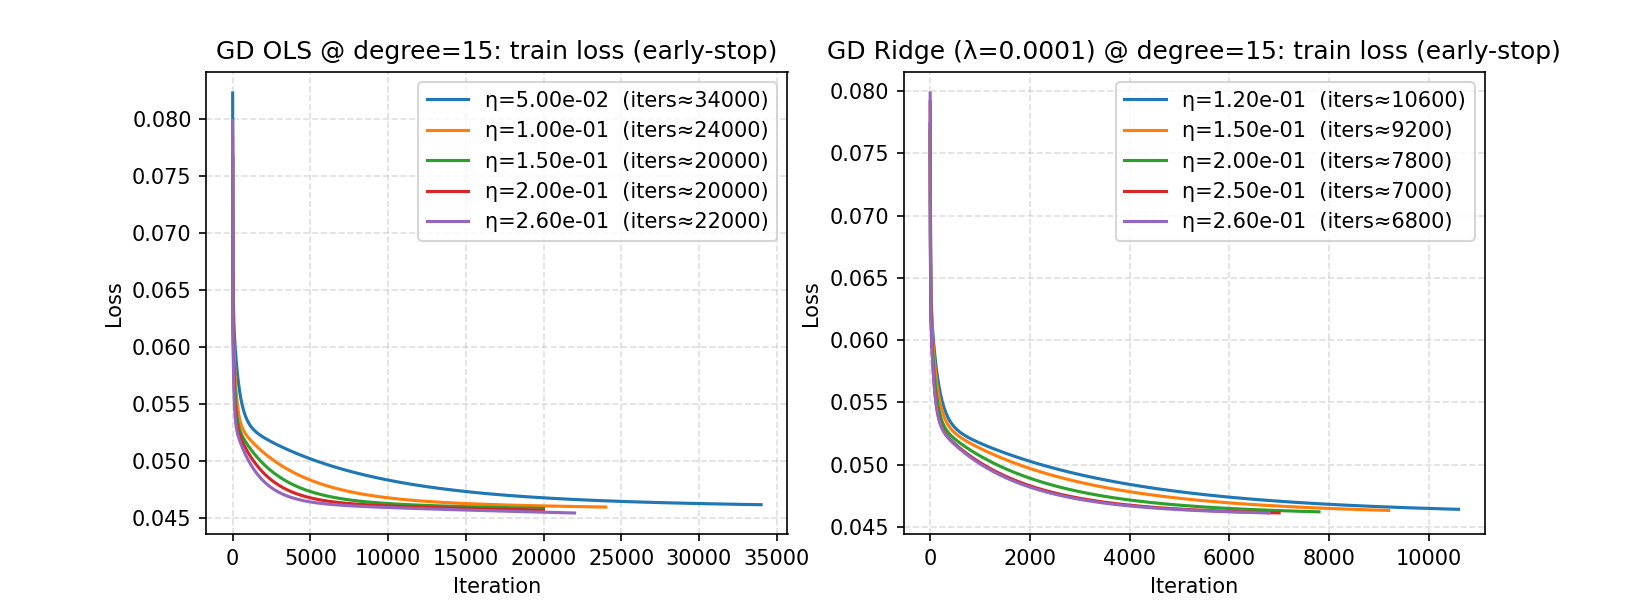
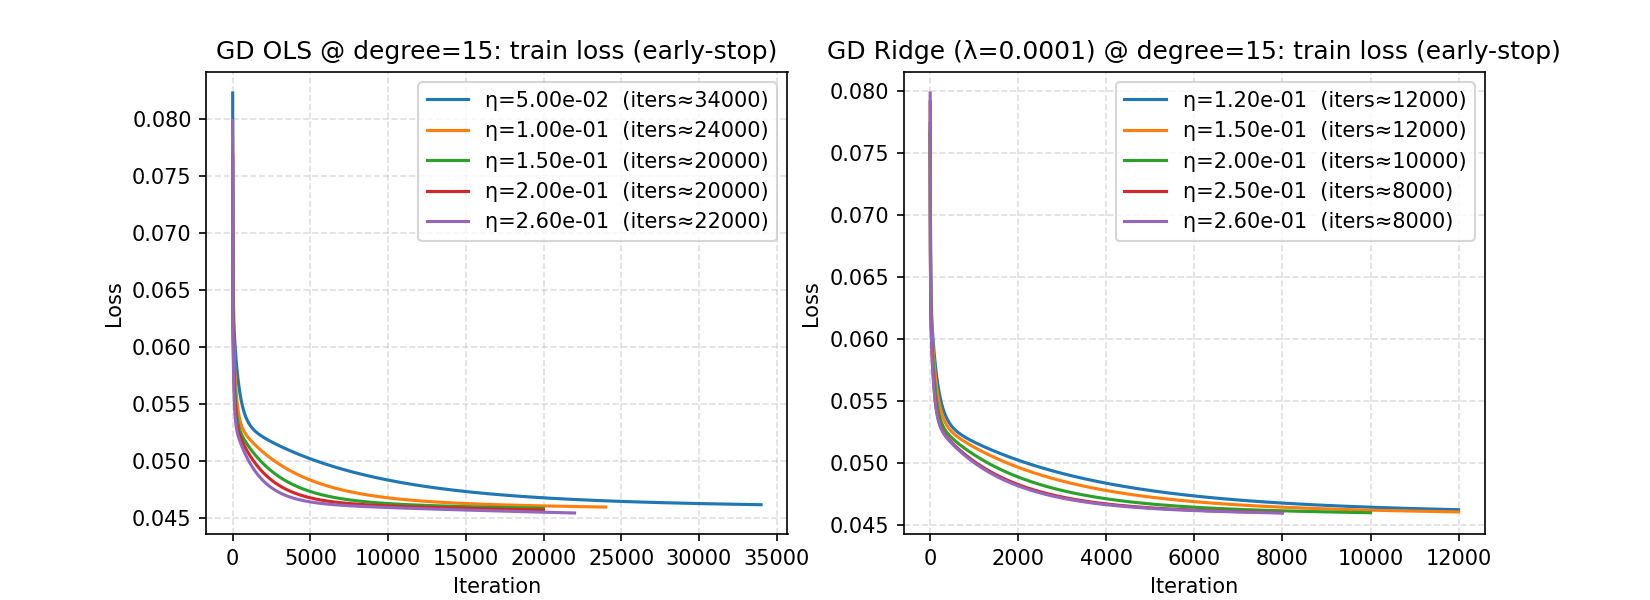
edit code and figures

diff --git a/Project-1/Code/models.py b/Project-1/Code/models.py
@@ -16,15 +16,31 @@ def fit_ols(X, y_c):
     return model.coef_.ravel()
 
 # ---------------- Ridge own code and via scikit-learn (no intercept; y is centered) --------------
-def fit_ridge(X, y_c, lam):
+
+def fit_ridge(X, y_c, lam, n_factor=True):
     """
-    Minimizes: (1/(2n))||Xθ - y_c||^2 + (α/2)||θ||^2 with α = λ/n.
-    Matching normal equations: (X^T X + λ I) θ = X^T y_c.
+    Ridge solution for
+        J(θ) = (1/(2n))‖Xθ - y_c‖^2 + (α/2)‖θ‖^2
+
+    If n_factor=True (default): `lam` is λ and we set α = λ/n internally.
+        Solve: (X^T X + λ I) θ = X^T y_c
+    If n_factor=False: `lam` is α directly.
+        Solve: (X^T X / n + α I) θ = (X^T y_c) / n
     """
-    XT_X = X.T @ X
-    XT_y = X.T @ y_c
-    p = X.shape[1]
-    return np.linalg.solve(XT_X + lam * np.eye(p), XT_y)
+    X = np.asarray(X, float)
+    y = np.asarray(y_c, float).ravel()
+    n, p = X.shape
+    I = np.eye(p, dtype=float)
+
+    if n_factor:             # lam is λ
+        A = X.T @ X + lam * I
+        b = X.T @ y
+    else:                    # lam is α
+        A = (X.T @ X) / n + lam * I
+        b = (X.T @ y) / n
+
+    return np.linalg.solve(A, b)
+
 
 def fit_ridge_sklearn(X, y, lam, n_factor=False, n=None, random_state=42):
     """Ridge via scikit-learn. Note: sklearn uses alpha directly (no /n)."""
@@ -82,57 +98,3 @@ def sweep_ridge(X_full, y, split_func, degree, lambdas, n_factor=True):
     return np.asarray(mses), np.asarray(r2s), np.asarray(norms)
 
 
-
-
-#OLD
-
-
-
-""" def fit_ols_sklearn(X, y):
-    ""OLS via scikit-learn (normal equations / least squares).""
-    model = LinearRegression(fit_intercept=True, copy_X=True)
-    model.fit(X, y)
-    return model  # use model.predict(Xnew)
-
-def fit_ridge_sklearn(X, y, lam, n_factor=False, n=None, random_state=42):
-    ""Ridge via scikit-learn. Note: sklearn uses alpha directly (no /n).""
-    alpha = (lam / n) if (n_factor and n is not None) else lam
-    model = Ridge(alpha=alpha, fit_intercept=True, random_state=random_state)
-    model.fit(X, y)
-    return model  # use model.predict(Xnew) """
-
-""" "Prediction functions."
-#Difference is shape between the two below
-def predict_centered(X, theta, y_mean):   
-    return X @ theta + y_mean # add back y_mean
-
-#1D 
-def predict_from_theta(X, theta, y_mean):
-    return (X @ theta).ravel() + y_mean # add back y_mean """
-
-"Sweep functions to evaluate models over hyperparameter ranges."
-""" def sweep_degree(X_full, y, split_func, deg_max=15):
-    X_tr_s, X_te_s, y_tr_c, y_te, _, y_mean = split_func(X_full, y) # split and scale
-    degrees = range(1, deg_max + 1) # degrees to try
-    mses, r2s, norms = [], [], [] # store metrics
-    for p in degrees: 
-        Xtr, Xte = X_tr_s[:, :p], X_te_s[:, :p] # use first p features  
-        theta = fit_ols(Xtr, y_tr_c) # fit OLS
-        yhat = predict_centered(Xte, theta, y_mean) # predict on test set
-        mses.append(mse(y_te, yhat)) # compute metrics
-        r2s.append(r2(y_te, yhat)) # compute metrics
-        norms.append(float(np.linalg.norm(theta))) # L2 norm of theta
-    return list(degrees), np.asarray(mses), np.asarray(r2s), np.asarray(norms) 
-
-"Ridge sweep over lambda values."
-def sweep_ridge(X_full, y, split_func, degree, lambdas, n_factor=True):
-    X_tr_s, X_te_s, y_tr_c, y_te, _, y_mean = split_func(X_full, y) # split and scale
-    Xtr, Xte = X_tr_s[:, :degree], X_te_s[:, :degree] # use first 'degree' features
-    mses, r2s, norms = [], [], [] # store metrics
-    for lam in np.asarray(lambdas): 
-        theta = fit_ridge(Xtr, y_tr_c, lam, n_factor=n_factor) # fit Ridge
-        yhat = predict_centered(Xte, theta, y_mean) # predict on test set
-        mses.append(mse(y_te, yhat)) # compute metrics
-        r2s.append(r2(y_te, yhat)) # compute metrics
-        norms.append(float(np.linalg.norm(theta))) # L2 norm of theta
-    return np.asarray(mses), np.asarray(r2s), np.asarray(norms)  """

diff --git a/Project-1/Code/grad.py b/Project-1/Code/grad.py
@@ -9,13 +9,12 @@ def grad_ols(X, y, theta):
     r = X @ theta - y
     return (X.T @ r) / X.shape[0]
 
-def grad_ridge(X, y, theta, lam, n_factor=True):
-    """
-    Ridge gradient for loss (1/2n)||Xθ - y||^2 + (α/2)||θ||^2.
-    If n_factor=True, interpret lam as λ and use α = λ/n (matches closed-form).
-    """
-    alpha = (lam / X.shape[0]) if n_factor else lam
-    return grad_ols(X, y, theta) + alpha * theta
+
+def grad_ridge(X, y_c, theta, lam, n_factor=True):
+    n = X.shape[0]
+    alpha = (lam / n) if n_factor else lam
+    r = X @ theta - y_c
+    return (X.T @ r) / n + alpha * theta
 
 # --------------- Lasso GD ------------------
 def lasso_gd(X, y, theta, eta, lmbda, Niterations):
@@ -76,17 +75,13 @@ def loss_ols(X, y, theta):
     r = X @ theta - y
     return 0.5 * (r @ r) / X.shape[0]
 
-""" def loss_ridge(X, y, theta, lam, n_factor=True):
-    n = X.shape[0]
-    alpha = alpha_from_lambda(lam, n, n_factor)
-    r = X @ theta - y
-    return 0.5 * (r @ r) / n + 0.5 * alpha * (theta @ theta) """
 
 def loss_ridge(X, y, theta, lam, n_factor=True):
     n = X.shape[0]
     alpha = (lam / n) if n_factor else lam
     r = X @ theta - y
     return 0.5 * (r @ r) / n + 0.5 * alpha * (theta @ theta)
+
 
 # ---------- GD supporting loss tracking ----------
 def gd(X, y, eta, iters, theta0=None, lam=None, n_factor=True,
